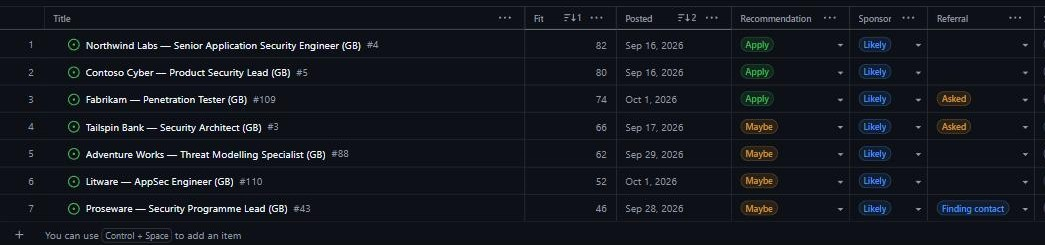
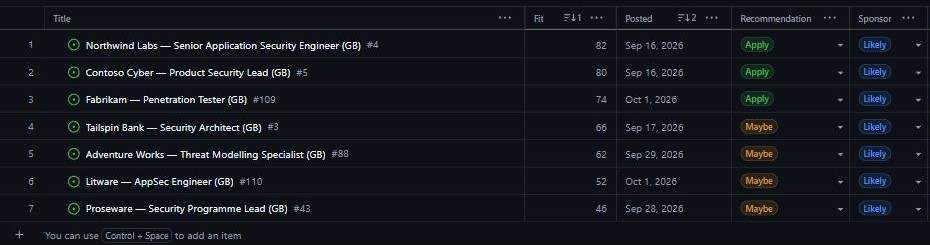
README: tighter All Roles crop so the text is readable
(auto-published from a private job-radar copy)

diff --git a/README.md b/README.md
@@ -158,7 +158,7 @@ about to expire) and **Pipeline**.
 
 <p align="center">
   <img src="docs/assets/board-table.jpg" alt="The All Roles view: a table of roles sorted by fit, with recommendation, sponsor, referral, stage, tier and country columns" width="100%">
-  <br><sub>The All Roles view, sorted by fit (more columns scroll to the right). Names are fictional in this picture.</sub>
+  <br><sub>The All Roles view, sorted by fit (Stage, Tier and Country sit to the right). Names are fictional in this picture.</sub>
 </p>
 
 <details>
